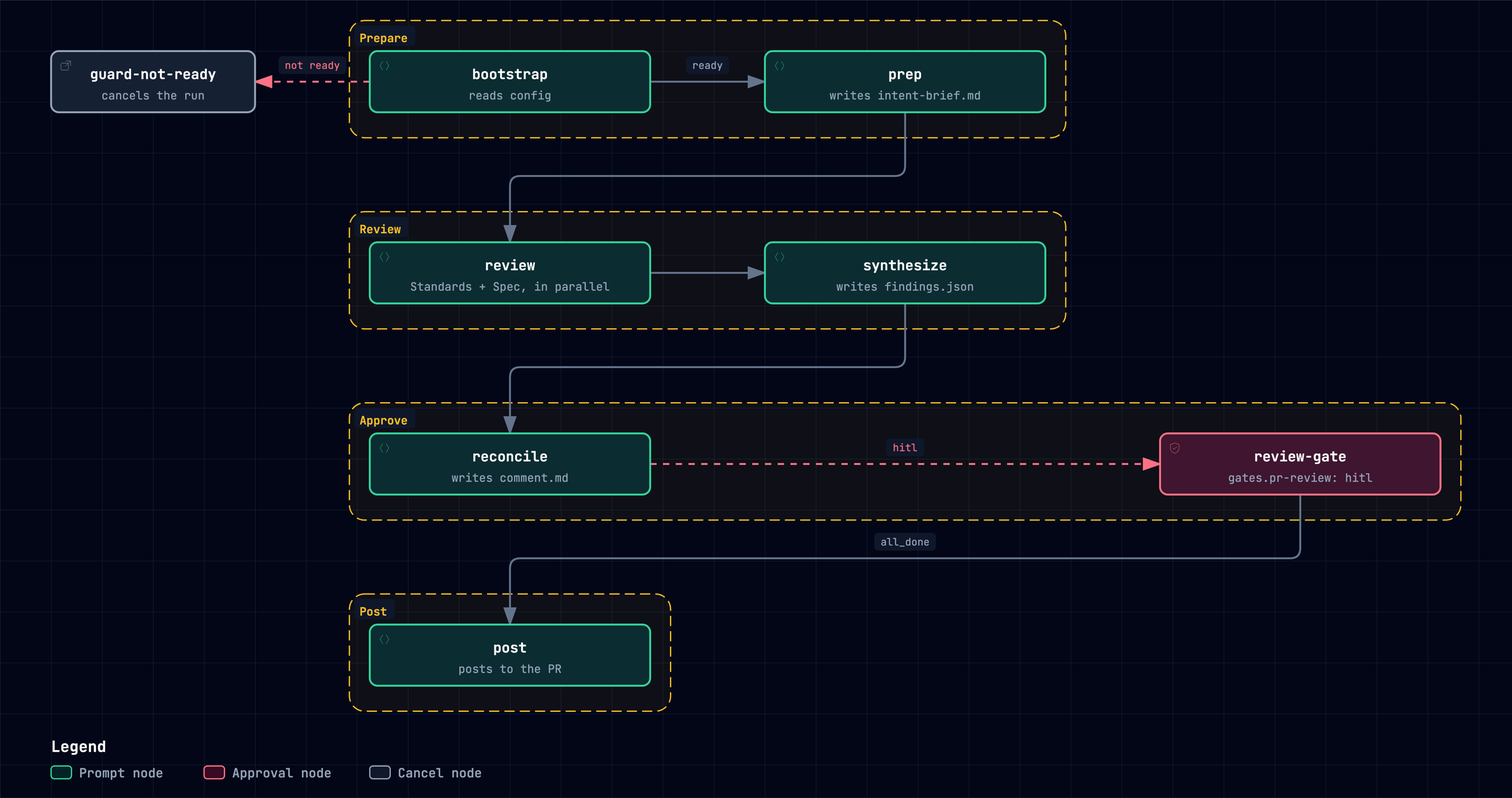
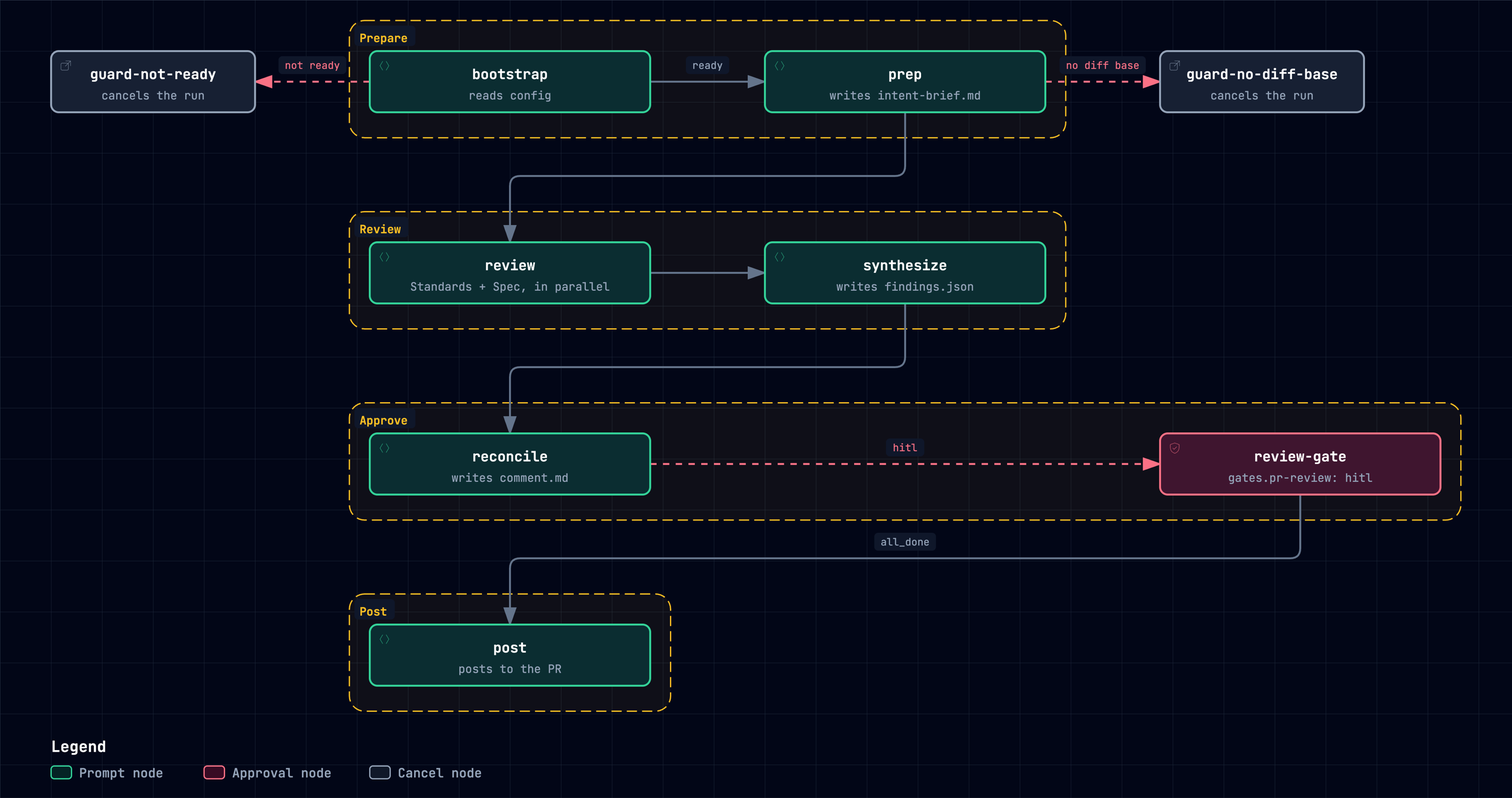
docs(unic-archon-dlc): draw guard-no-diff-base in the /pr-review pipeline diagram
The new cancel node made the diagram stale. It is drawn the way
guard-not-ready is, as a cancel node with a security edge from prep, and
gets its own "No diff base" view. The HTML is regenerated with archify
deliver, and both PNGs are exported from the viewer and scaled to 2620 px
wide, as before.

Refs #505

Changed region(s): [[0.7111, 0.0622, 0.9275, 0.1555]]

diff --git a/apps/claude-code/unic-archon-dlc/docs/architecture/20260925-unic-dlc-pr-review-pipeline.html b/apps/claude-code/unic-archon-dlc/docs/architecture/20260925-unic-dlc-pr-review-pipeline.html
@@ -5085,7 +5085,7 @@ OTHER DEALINGS IN THE FONT SOFTWARE.
       </div>
     </div>
 
-    <script id="archify-guided-views-data" type="application/json">[{"id":"not-ready","label":"Not ready","focus":["bootstrap","guard-not-ready"],"note":"A run whose preconditions fail is cancelled before any review work."},{"id":"happy-path","label":"Happy path","focus":["bootstrap","prep","review","synthesize","reconcile","review-gate","post"],"note":"From bootstrap to the posted review. review runs the Standards and Spec sub-agents in parallel inside one node."},{"id":"approval","label":"Approval","focus":["reconcile","review-gate","post"],"note":"hitl pauses at review-gate. afk skips it, and post runs because its trigger_rule is all_done."}]</script>
+    <script id="archify-guided-views-data" type="application/json">[{"id":"not-ready","label":"Not ready","focus":["bootstrap","guard-not-ready"],"note":"A run whose preconditions fail is cancelled before any review work."},{"id":"no-diff-base","label":"No diff base","focus":["prep","guard-no-diff-base"],"note":"When prep cannot resolve the branch the PR merges into, even after a fetch, the run is cancelled before review."},{"id":"happy-path","label":"Happy path","focus":["bootstrap","prep","review","synthesize","reconcile","review-gate","post"],"note":"From bootstrap to the posted review. review runs the Standards and Spec sub-agents in parallel inside one node."},{"id":"approval","label":"Approval","focus":["reconcile","review-gate","post"],"note":"hitl pauses at review-gate. afk skips it, and post runs because its trigger_rule is all_done."}]</script>
 
     <script id="archify-i18n-data" type="application/json">{"locale":"en","messages":{"viewer.kind.frontend":"Frontend","viewer.kind.backend":"Backend","viewer.kind.database":"Database","viewer.kind.cloud":"Cloud","viewer.kind.security":"Security","viewer.kind.messagebus":"Message bus","viewer.kind.external":"External","viewer.kind.neutral":"Neutral","viewer.kind.node":"Node","viewer.kind.start":"Start","viewer.kind.active":"Active","viewer.kind.waiting":"Waiting","viewer.kind.decision":"Decision","viewer.kind.success":"Success","viewer.kind.failure":"Failure","viewer.toolbar.actions":"Diagram actions","viewer.theme.toggle.title":"Toggle theme (T)","viewer.theme.toggle":"Toggle color theme","viewer.theme.dark":"Dark","viewer.theme.light":"Light","viewer.preset.choose.title":"Choose visual style (S cycles)","viewer.preset.choose":"Choose visual style","viewer.preset.style":"Style","viewer.preset.menu":"Visual style","viewer.preset.identity":"Visual identity","viewer.preset.cycles":"S cycles","viewer.preset.classic":"Classic","viewer.preset.classic.short":"Classic","viewer.preset.classic.hint":"Stable technical default","viewer.preset.flow":"Signal Flow","viewer.preset.flow.short":"Flow","viewer.preset.flow.hint":"Motion-forward presentation","viewer.preset.blueprint":"Blueprint","viewer.preset.blueprint.hint":"Engineering review","viewer.preset.editorial":"Editorial","viewer.preset.editorial.hint":"Publication and launch notes","viewer.preset.badge.signalFlow":"SIGNAL FLOW","viewer.preset.badge.blueprint":"BLUEPRINT / REV 01","viewer.preset.badge.editorial":"EDITORIAL / FIELD NOTE","viewer.preset.badge.editorialPlate":"ARCHIFY / PLATE 04","viewer.preset.current":"Visual style: {style}. Choose visual style","viewer.motion.live":"Live","viewer.motion.still":"Still","viewer.motion.pause":"Pause motion","viewer.motion.resume":"Resume motion","viewer.motion.reduced":"Motion paused by reduced-motion preference","viewer.motion.hidden":"Motion paused while this page is hidden","viewer.motion.yielding":"Pause motion; currently yielding to {owner}","viewer.motion.yielding.title":"Live preview enabled · yielding to {owner}","viewer.owner.story":"the guided story","viewer.owner.chapter":"the active chapter","viewer.owner.chapterPreview":"the chapter delta preview","viewer.owner.handoff":"the chapter handoff","viewer.owner.route":"Route Probe","viewer.owner.lens":"Semantic Lens","viewer.owner.relationship":"Relationship Preview","viewer.owner.intent":"Intent Trace","viewer.owner.focus":"semantic focus","viewer.owner.legend":"legend preview","viewer.owner.reader":"reader interaction","viewer.present.enter":"Enter presentation stage","viewer.present.enter.title":"Presentation stage (F)","viewer.present.exit":"Exit presentation stage","viewer.present.exit.title":"Exit presentation stage (F or Escape)","viewer.present.present":"Present","viewer.present.exit.label":"Exit","viewer.export.button":"Export","viewer.export.button.title":"Export diagram (E)","viewer.export.diagram":"Export diagram","viewer.export.menu":"Export","viewer.export.subtitle":"Portable, clean outputs","viewer.export.share":"Share","viewer.export.shareCard":"Share Card","viewer.export.routeShareCard":"Route Share Card","viewer.export.reachShareCard":"Reach Share Card","viewer.export.copyShareCard":"Copy Share Card","viewer.export.copyDiagram":"Copy diagram","viewer.export.clipboardPng":"PNG to clipboard","viewer.export.raster":"Raster images","viewer.export.image":"Image","viewer.export.lossless":"Lossless image","viewer.export.compact":"Compact image","viewer.export.modern":"Modern image","viewer.export.vectorMotion":"Vector and motion","viewer.export.vectorMotion.heading":"Vector \u0026 motion","viewer.export.editable":"Editable vector","viewer.export.motion6s":"6s motion","viewer.export.unsupported":"Not supported by this browser","viewer.export.clipboardUnsupported":"Clipboard image write not supported by this browser","viewer.export.clipboardUnsupported.period":"Clipboard image write not supported by this browser.","viewer.export.clipboardUnsupported.short":"Clipboard image write not supported in this browser.","viewer.export.motionUnavailable":"Motion capture unavailable in this browser","viewer.export.webmUnavailable":"WebM unavailable in this browser","viewer.export.failed":"Export failed: {message}","viewer.export.unknownVariant":"Unknown Share Card variant: {variant}","viewer.export.routeRequired":"Trace a route before exporting a Route Share Card","viewer.export.reachRequired":"Trace authored reach before exporting a Reach Share Card","viewer.export.unknown":"unknown","viewer.export.routeFailed":"Route Share Card export failed: {message}","viewer.export.reachFailed":"Reach Share Card export failed: {message}","viewer.export.copyFailed":"Copy failed: {message}","viewer.export.copiedPng":"Copied PNG to clipboard","viewer.export.copiedShare":"Copied Share Card","viewer.export.downloadedShare":"Downloaded Share Card","viewer.export.downloadedRoute":"Downloaded Route Share Card","viewer.export.downloadedReach":"Downloaded Reach Share Card","viewer.export.downloadedWebm":"Downloaded WebM","viewer.export.recording":"Recording 6 seconds of motion…","viewer.export.card.routeSummary.one":"Route: {source} → {target} · {count} directed hop","viewer.export.card.routeSummary.other":"Route: {source} → {target} · {count} directed hops","viewer.export.card.reachSummary":"Authored {direction} from {origin} · {nodes} · {links} · max {hops}","viewer.export.card.node.one":"{count} node","viewer.export.card.node.other":"{count} nodes","viewer.export.card.link.one":"{count} link","viewer.export.card.link.other":"{count} links","viewer.export.card.hop.one":"{count} hop","viewer.export.card.hop.other":"{count} hops","viewer.export.card.routeBadge":"ARCHIFY · ROUTE · {hops}","viewer.export.card.reachBadge":"ARCHIFY · {direction} REACH","viewer.export.card.defaultBadge":"ARCHIFY · {preset} · {theme}","viewer.export.direction.upstream":"Upstream","viewer.export.direction.downstream":"Downstream","viewer.export.error.canvasUnavailable":"Canvas unavailable for {label}","viewer.export.error.contextUnavailable":"2D canvas context unavailable for {label}","viewer.export.error.toBlobUnavailable":"canvas.toBlob unavailable for {label}","viewer.export.error.toBlobNull":"canvas.toBlob returned no data for {label}","viewer.export.error.variantsCombined":"Share Card variants cannot be combined","viewer.export.error.viewerState":"Share Card export could not remove temporary viewer state","viewer.export.error.routeState":"Route Card export could not preserve the resolved route safely","viewer.export.error.reachState":"Reach Card export could not preserve authored reach safely","viewer.export.error.webmRequirements":"WebM motion export requires a trace animation and browser MediaRecorder support","viewer.export.error.mediaRecorder":"MediaRecorder failed","viewer.export.error.emptyWebm":"MediaRecorder produced an empty WebM","viewer.export.error.webmBackground":"SVG background could not be loaded for WebM export","viewer.guided.region":"Guided diagram views","viewer.guided.previous":"Previous guided view","viewer.guided.previous.title":"Previous guided view ([)","viewer.guided.next":"Next guided view","viewer.guided.next.title":"Next guided view (])","viewer.guided.views":"Guided views","viewer.guided.explore":"Explore this system","viewer.guided.intro":"Step through curated paths without changing the source diagram.","viewer.guided.trail":"Story trail","viewer.guided.beat":"Beat","viewer.guided.nextBeat":"Next","viewer.guided.play":"Play guided story","viewer.guided.play.title":"Play guided story (P)","viewer.guided.pause":"Pause guided story","viewer.guided.pause.title":"Pause guided story (P)","viewer.guided.replay":"Replay guided story","viewer.guided.replay.title":"Replay guided story (P)","viewer.guided.playStory":"Play story","viewer.guided.pauseStory":"Pause","viewer.guided.replayStory":"Replay story","viewer.guided.motionUnavailable":"Story playback unavailable while motion is Still","viewer.guided.enableMotion":"Switch motion to Live to play the guided story","viewer.guided.selectBeatLink":"Select a Story Beat to copy its exact link","viewer.guided.copyMoment":"Copy moment","viewer.guided.momentCopied":"Moment link copied","viewer.guided.momentCopyFailed":"Could not copy story moment link","viewer.guided.copied":"Copied","viewer.guided.copyFailed":"Copy failed","viewer.guided.showAll":"Show all","viewer.guided.showAll.aria":"Show entire diagram","viewer.guided.chapters":"Story chapters","viewer.guided.storyTrail":"Story trail for {label}: {count} beats","viewer.guided.chapter.open":"Open chapter {index} of {total}: {label}, {count} stops","viewer.guided.chapter.current":"Current chapter {index} of {total}: {label}, {count} stops","viewer.guided.chapter.selectedNodes":"{count} selected nodes","viewer.guided.chapter.stops":"{count} stops","viewer.guided.chapter.stop.one":"{count} stop","viewer.guided.chapter.stop.other":"{count} stops","viewer.guided.chapter.current.title":"{label} — current chapter, {count} stops","viewer.guided.chapter.delta.expanded":"{stay} stay, {enter} enter, {leave} leave","viewer.guided.chapter.delta.aria":"Open chapter {index} of {total}: {label}. Chapter focus delta: {delta}","viewer.guided.chapter.delta.title":"{label} — {delta} chapter focus","viewer.guided.handoff":"{from} → {to} · via {label}","viewer.guided.share.chapter":"Chapter {index} / {total}","viewer.guided.share.initial":"Chapter 01 / 01","viewer.guided.share.default":"Guided chapter","viewer.guided.state.ready":"Ready","viewer.guided.state.playing":"Playing","viewer.guided.state.settled":"Settled","viewer.guided.state.paused":"Paused","viewer.guided.state.pinned":"Pinned","viewer.guided.state.still":"Still","viewer.guided.share.step":"Step {index} / {total} · {label}","viewer.guided.share.staticMoment":"{step} · Static moment","viewer.guided.share.complete":"{count} steps complete · {note}","viewer.guided.share.settled":"Path settled for reading.","viewer.guided.share.staticPath":"{count} steps · Static path","viewer.guided.share.ready":"{count} steps · Ready","viewer.guided.share.aria":"{state} chapter {index} of {total}: {label}. {beat}. {route}","viewer.guided.beat.start":"Beat {index} / {total} · {label} · starting point","viewer.guided.beat.forward":"Beat {index} / {total} · {from} → {to}","viewer.guided.beat.reverse":"Beat {index} / {total} · {from} → {to} · reverse authored link","viewer.guided.beat.multiple":"Beat {index} / {total} · {from} ⇄ {to} · {count} authored links","viewer.guided.beat.group":"Beat {index} / {total} · {from} · {to} · grouped · no direct link","viewer.guided.beat.aria.prefix":"Story beat {index} of {total}: {label}. ","viewer.guided.beat.aria.start":"Starting point.","viewer.guided.beat.aria.forward":"From {from} through one authored forward relationship.","viewer.guided.beat.aria.reverse":"From {from}; the authored relationship points from {to} to {from}.","viewer.guided.beat.aria.multiple":"From {from} through {count} authored relationships; shown without arbitrary motion.","viewer.guided.beat.aria.group":"Grouped from {from} with no direct authored relationship.","viewer.guided.caption.start":"Starting point","viewer.guided.caption.grouped":"Grouped transition · no direct authored link","viewer.guided.caption.more":" +{count} more","viewer.guided.caption.reverse":"Reverse authored relationship","viewer.guided.caption.relationships":"{count} authored relationships","viewer.guided.caption.relationship":"Authored relationship","viewer.guided.caption.direction":"authored direction: {from} → {to}","viewer.guided.caption.starting":"Authored starting point","viewer.guided.beatLink":"Copy link to current story moment: Beat {index} of {total}: {label}","viewer.guided.noStory":"This diagram has no authored guided story.","viewer.guide.eyebrow":"Diagram guide","viewer.guide.close":"Close diagram guide","viewer.guide.inspecting":"Inspecting compiled semantics","viewer.guide.actions":"Diagram exploration actions","viewer.guide.find":"Find any node","viewer.guide.find.hint":"Search labels, responsibilities, kinds, and stable IDs.","viewer.guide.route":"Trace a route","viewer.guide.route.aria":"Trace a directed route","viewer.guide.route.hint":"Ask how two semantic nodes connect in authored direction.","viewer.guide.map":"See the whole system","viewer.guide.map.hint":"Open Semantic Radar with a live viewport and stable nodes.","viewer.guide.lens":"Compare semantic kinds","viewer.guide.lens.hint":"Count roles, reveal their traffic, and compare direct authored links.","viewer.guide.story":"Play the guided story","viewer.guide.story.hint":"Walk the authored chapters and real relationships.","viewer.guide.present":"Enter Presentation Stage","viewer.guide.present.hint":"Give the live diagram the viewport without changing export.","viewer.guide.shortcuts":"Additional keyboard shortcuts","viewer.guide.shortcut.export":"Export","viewer.guide.shortcut.theme":"Theme","viewer.guide.shortcut.style":"Style","viewer.guide.shortcut.reset":"Reset","viewer.guide.shortcut.zoomIn":"Zoom in","viewer.guide.shortcut.zoomOut":"Zoom out","viewer.guide.shortcut.close":"Close","viewer.guide.facts":"{nodes} · {relationships} · {views}","viewer.guide.fact.node.one":"{count} semantic node","viewer.guide.fact.node.other":"{count} semantic nodes","viewer.guide.fact.relationship.one":"{count} relationship","viewer.guide.fact.relationship.other":"{count} relationships","viewer.guide.fact.view.one":"{count} guided view","viewer.guide.fact.view.other":"{count} guided views","viewer.guide.story.available.one":"Walk {count} authored chapter and its real relationships.","viewer.guide.story.available.other":"Walk {count} authored chapters and their real relationships.","viewer.guide.story.unavailable":"No authored guided story in this diagram.","viewer.guide.open":"Open diagram guide","viewer.guide.noStory":"This diagram has no authored guided story.","viewer.finder.title":"Find a node","viewer.finder.close":"Close node finder","viewer.finder.placeholder":"Search labels or IDs","viewer.finder.search":"Search diagram nodes","viewer.finder.results":"Diagram nodes","viewer.finder.empty":"No matching nodes","viewer.finder.result.focus":"Focus {label}","viewer.finder.result.routeStart":"Choose {label} as route start","viewer.finder.result.routeTarget":"Choose {label} as route destination, {links}","viewer.finder.status.empty":"No matching nodes","viewer.finder.status.count.one":"{count} matching node","viewer.finder.status.count.other":"{count} matching nodes","viewer.finder.noun.nodes":"nodes","viewer.finder.link.one":"{count} link","viewer.finder.link.other":"{count} links","viewer.finder.result.focus.one":"Focus {label}, {count} related connection","viewer.finder.result.focus.other":"Focus {label}, {count} related connections","viewer.finder.status.filtered":"{visible} of {available} {noun}","viewer.finder.status.all":"{available} {noun}","viewer.passport.eyebrow":"Semantic passport","viewer.passport.metadata":"Node metadata","viewer.passport.evidence":"Verified source evidence","viewer.passport.verified":"Verified source","viewer.passport.verificationScope":"Verified against local Git at the pinned revision. Remote access has not been checked.","viewer.passport.reach":"Authored reach","viewer.passport.reach.trace":"Trace authored reachability","viewer.passport.upstream":"Upstream","viewer.passport.downstream":"Downstream","viewer.passport.upstream.trace":"Trace upstream authored reachability","viewer.passport.downstream.trace":"Trace downstream authored reachability","viewer.passport.close":"Close semantic passport","viewer.passport.copy":"Copy link","viewer.passport.copy.focus":"Copy link to focused node","viewer.passport.relations":"Relations","viewer.passport.relations.show":"Show connected relationships","viewer.passport.relations.hide":"Hide connected relationships","viewer.passport.relations.list":"Connected relationships","viewer.passport.copyRelation":"Copy relation","viewer.passport.copyNode":"Copy node","viewer.passport.copyPinned":"Copy link to pinned relationship","viewer.passport.copySource":"Copy link to source node","viewer.passport.copy.focused.success":"Focused node link copied","viewer.passport.copy.pinned.success":"Pinned relationship link copied","viewer.passport.copy.focused.failed":"Could not copy focused node link","viewer.passport.copy.pinned.failed":"Could not copy pinned relationship link","viewer.passport.relationship.none":"No connected relationships","viewer.passport.relationship.count.one":"{count} relation","viewer.passport.relationship.count.other":"{count} relations","viewer.passport.relationship.show.one":"Show {count} connected relationship","viewer.passport.relationship.show.other":"Show {count} connected relationships","viewer.passport.relationship.summary":"{out} outgoing · {in} incoming{loops}","viewer.passport.relationship.loops":" · {count} loop","viewer.passport.relationship.explorer":"Direct relationship explorer","viewer.passport.relationship.help":"Use arrow keys to explore relationships. Press Enter or Space to pin details; Escape clears.","viewer.passport.relationship.loopsBack":"loops back","viewer.passport.relationship.connectsTo":"connects to","viewer.passport.relationship.connectsFrom":"connects from","viewer.passport.relationship.pinned":"Pinned relationship · {from} → {to} · {label}","viewer.passport.relationship.inspect":"Inspect relationship {index} of {total}: {from} to {to}, {label}. Press Enter for details.","viewer.passport.relationship.group.out":"Outgoing","viewer.passport.relationship.group.in":"Incoming","viewer.passport.relationship.group.loop":"Self loops","viewer.passport.relationship.row":"{group}: {relationship}, {neighbor}","viewer.passport.relationship.direction.out":"OUT →","viewer.passport.relationship.direction.in":"← IN","viewer.passport.relationship.direction.loop":"LOOP","viewer.passport.sourceCount.one":"{count} verified source reference","viewer.passport.sourceCount.other":"{count} verified source references","viewer.passport.sourceMarker":"SRC","viewer.passport.beacon.one":"{count} verified source; focus this node to inspect","viewer.passport.beacon.other":"{count} verified sources; focus this node to inspect","viewer.passport.repository.open":"Open verified repository revision {revision}","viewer.passport.source.open":"Open verified source {path} at revision {revision}","viewer.passport.source.openLink":"Open ↗","viewer.passport.reach.upstream.one":"Trace {count} upstream authored node","viewer.passport.reach.upstream.other":"Trace {count} upstream authored nodes","viewer.passport.reach.downstream.one":"Trace {count} downstream authored node","viewer.passport.reach.downstream.other":"Trace {count} downstream authored nodes","viewer.passport.reach.noUpstream":"No upstream authored nodes","viewer.passport.reach.noDownstream":"No downstream authored nodes","viewer.passport.reach.status":"{direction} · {nodes} nodes · {links} links · max {hops} hops","viewer.route.eyebrow":"Route probe","viewer.route.start":"Choose a start node","viewer.route.start.find":"Find start","viewer.route.start.find.aria":"Find a route start","viewer.route.copy":"Copy link","viewer.route.copy.aria":"Copy link to traced route","viewer.route.clear":"Clear","viewer.route.clear.aria":"Clear route probe","viewer.route.traced":"Traced route","viewer.route.pickTwo":"Pick two semantic nodes on the diagram","viewer.route.pickOne":"Pick a semantic node on the diagram","viewer.route.controls":"Route journey controls","viewer.route.previous":"Previous route position","viewer.route.play":"Play route journey","viewer.route.pause":"Pause route journey","viewer.route.replay":"Replay route journey","viewer.route.next":"Next route position","viewer.route.journey":"Journey","viewer.route.pause.label":"Pause","viewer.route.replay.label":"Replay","viewer.route.overview":"Overview","viewer.route.overview.aria":"Show complete route overview","viewer.route.instructions":"Choose the source, then the destination. Direction matters.","viewer.route.destination":"Choose a destination from {label}","viewer.route.destination.find":"Find target","viewer.route.destination.find.aria":"Find a reachable route destination","viewer.route.differentDestination":"Choose a different destination","viewer.route.distinct":"A route needs two distinct semantic nodes.","viewer.route.unreachable":"No directed route to {label}","viewer.route.unreachable.detail":"{target} is not reachable from {source}. Pick a highlighted destination.","viewer.route.start.instructions":"Select the source. The next step will reveal only directed destinations.","viewer.route.copy.success":"Traced route link copied","viewer.route.copy.failed":"Could not copy traced route link","viewer.route.position":"Route position {index} of {total}: {label}","viewer.route.step":"Step {index} of {total} · {phase} · {label}","viewer.route.motionRequired":"Automatic journey requires Live motion","viewer.route.trigger.clear":"Clear traced route","viewer.route.overview.status":"{nodes} · {hops} · shortest authored route","viewer.route.overview.node.one":"{count} node","viewer.route.overview.node.other":"{count} nodes","viewer.route.overview.hop.one":"{count} directed hop","viewer.route.overview.hop.other":"{count} directed hops","viewer.route.phase.playing":"Playing","viewer.route.phase.complete":"Complete","viewer.route.phase.inspecting":"Inspecting","viewer.route.destination.count.one":"{count} directed destination available. Pick a highlighted node.","viewer.route.destination.count.other":"{count} directed destinations available. Pick a highlighted node.","viewer.route.noOutgoing":"No outgoing route starts here. Clear and choose another source.","viewer.route.result.title":"{source} to {target}","viewer.route.finder.source.title":"Choose route start","viewer.route.finder.source.placeholder":"Search route sources","viewer.route.finder.source.empty":"No matching route sources","viewer.route.finder.source.results":"Nodes that can start a route","viewer.route.finder.source.noun":"route sources","viewer.route.finder.source.badge":"start","viewer.route.finder.target.title":"Destination from {label}","viewer.route.finder.target.placeholder":"Search reachable destinations","viewer.route.finder.target.empty":"No matching reachable destinations","viewer.route.finder.target.results":"Reachable route destinations","viewer.route.finder.target.noun":"reachable destinations","viewer.route.hop.one":"{count} hop","viewer.route.hop.other":"{count} hops","viewer.lens.eyebrow":"Semantic lens","viewer.lens.title":"Compare system roles","viewer.lens.close":"Close semantic lens","viewer.lens.instruction":"Choose up to two semantic kinds. One reveals its real traffic; two compare only direct authored relationships.","viewer.lens.kinds":"Semantic kinds","viewer.lens.choose":"Choose a kind to inspect its nodes and touching relationships.","viewer.lens.copy":"Copy link to semantic lens","viewer.lens.clear":"Clear semantic lens","viewer.lens.open":"Open semantic lens","viewer.lens.openActive":"Open active semantic lens","viewer.lens.legend":"Semantic legend","viewer.lens.legend.inspect.one":"Inspect {label}, {count} node","viewer.lens.legend.inspect.other":"Inspect {label}, {count} nodes","viewer.lens.kind.count.one":"{label}, {count} node","viewer.lens.kind.count.other":"{label}, {count} nodes","viewer.lens.compare.one":"{first} → {second}: {forward} · {second} → {first}: {reverse} · {count} direct relationship","viewer.lens.compare.other":"{first} → {second}: {forward} · {second} → {first}: {reverse} · {count} direct relationships","viewer.lens.single":"{nodes} · {relationships} · connected peers remain visible","viewer.lens.node.one":"{count} {label} node","viewer.lens.node.other":"{count} {label} nodes","viewer.lens.relationship.one":"{count} touching relationship","viewer.lens.relationship.other":"{count} touching relationships","viewer.radar.title":"Semantic radar","viewer.radar.building":"Building overview","viewer.radar.openFull":"Open full semantic radar","viewer.radar.open":"Open radar","viewer.radar.close":"Close semantic radar","viewer.radar.surface":"Diagram overview. Click a node to focus it, or use arrow keys to pan.","viewer.radar.click":"Click node","viewer.radar.drag":"Drag to pan","viewer.radar.space":"Semantic radar needs more MAP space.","viewer.radar.nodes":"Semantic diagram radar nodes","viewer.radar.focus":"Focus {label} from Semantic Radar","viewer.radar.status":"{count} nodes · {viewport}","viewer.radar.fullMap":"{count} nodes · full map","viewer.radar.compacted":"Radar compacted to avoid covering the Semantic Passport or MAP controls.","viewer.radar.cancelWaiting":"Cancel semantic radar waiting for more MAP space","viewer.radar.needsSpace":"Semantic radar needs more visible MAP space","viewer.radar.viewport.full":"full map","viewer.radar.viewport.width":"{percent}% width","viewer.radar.viewport.scale":"{percent}% viewport","viewer.nav.controls":"Diagram view controls","viewer.nav.route":"Trace a directed route","viewer.nav.route.title":"Trace route (R)","viewer.nav.route.short":"PATH","viewer.nav.radar":"Open semantic radar","viewer.nav.radar.title":"Semantic radar (M)","viewer.nav.radar.short":"MAP","viewer.nav.lens":"Open semantic lens","viewer.nav.lens.title":"Semantic lens (L)","viewer.nav.lens.short":"LENS","viewer.nav.find":"Find a node","viewer.nav.find.title":"Find a node (/)","viewer.nav.guide":"Open diagram guide","viewer.nav.guide.title":"Diagram guide (?)","viewer.nav.zoomOut":"Zoom out","viewer.nav.zoomOut.title":"Zoom out (-)","viewer.nav.reset":"Reset diagram view","viewer.nav.reset.title":"Reset view (0)","viewer.nav.read":"READ","viewer.nav.zoomIn":"Zoom in","viewer.nav.zoomIn.title":"Zoom in (+)","viewer.nav.camera":"{hint}. Reset diagram view","viewer.nav.camera.title":"{semantic}{hint} · reset view (0)","viewer.nav.camera.semantic":"Semantic camera active · ","viewer.nav.level.map":"MAP","viewer.nav.level.read":"READ","viewer.nav.level.full":"FULL","viewer.nav.level.auto":"AUTO","viewer.nav.detail.map":"Zoom in to reveal relationship labels and node context","viewer.nav.detail.read":"Zoom in again to reveal tags and annotations","viewer.nav.detail.full":"Full diagram detail","viewer.intent.summary":"{label}. {out} outgoing, {in} incoming{loops}. {total} connections. Press Enter for details.","viewer.intent.loops":", {count} self loop","viewer.common.copied":"Copied","viewer.common.copyFailed":"Copy failed","viewer.common.copyLink":"Copy link","viewer.common.clear":"Clear","viewer.common.close":"Close"}}</script>
     <div class="guided-views no-print" id="guided-views" hidden aria-label="Guided diagram views">
@@ -5167,11 +5167,12 @@ OTHER DEALINGS IN THE FONT SOFTWARE.
         <!-- Connection paths (before components for correct z-order) -->
         <path data-edge-from="bootstrap" data-edge-to="prep" data-edge-label="ready" data-edge-key="0" data-edge-id="bootstrap-prep" data-composition-points="510,64;600,64" d="M 510 64 L 600 64" class="a-default" stroke-width="1.5" marker-end="url(#arrowhead)"/>
         <path data-edge-from="bootstrap" data-edge-to="guard-not-ready" data-edge-label="not ready" data-edge-key="1" data-edge-id="not-ready" data-composition-points="290,64;200,64" d="M 290 64 L 200 64" class="a-security" stroke-width="1.5" marker-end="url(#arrowhead-security)"/>
-        <path data-edge-from="prep" data-edge-to="review" data-edge-key="2" data-edge-id="prep-review" data-composition-points="710,88;710,138;400,138;400,190" d="M 710 88 L 710 130 Q 710 138 702 138 L 408 138 Q 400 138 400 146 L 400 190" class="a-default" stroke-width="1.5" marker-end="url(#arrowhead)"/>
-        <path data-edge-from="review" data-edge-to="synthesize" data-edge-key="3" data-edge-id="review-synthesize" data-composition-points="510,214;600,214" d="M 510 214 L 600 214" class="a-default" stroke-width="1.5" marker-end="url(#arrowhead)"/>
-        <path data-edge-from="synthesize" data-edge-to="reconcile" data-edge-key="4" data-edge-id="synthesize-reconcile" data-composition-points="710,238;710,288;400,288;400,340" d="M 710 238 L 710 280 Q 710 288 702 288 L 408 288 Q 400 288 400 296 L 400 340" class="a-default" stroke-width="1.5" marker-end="url(#arrowhead)"/>
-        <path data-edge-from="reconcile" data-edge-to="review-gate" data-edge-label="hitl" data-edge-key="5" data-edge-id="reconcile-review-gate" data-composition-points="510,364;910,364" d="M 510 364 L 910 364" class="a-security" stroke-width="1.5" marker-end="url(#arrowhead-security)"/>
-        <path data-edge-from="review-gate" data-edge-to="post" data-edge-label="all_done" data-edge-key="6" data-edge-id="review-gate-post" data-composition-points="1020,388;1020,438;400,438;400,490" d="M 1020 388 L 1020 430 Q 1020 438 1012 438 L 408 438 Q 400 438 400 446 L 400 490" class="a-default" stroke-width="1.5" marker-end="url(#arrowhead)"/>
+        <path data-edge-from="prep" data-edge-to="guard-no-diff-base" data-edge-label="no diff base" data-edge-key="2" data-edge-id="no-diff-base" data-composition-points="820,64;910,64" d="M 820 64 L 910 64" class="a-security" stroke-width="1.5" marker-end="url(#arrowhead-security)"/>
+        <path data-edge-from="prep" data-edge-to="review" data-edge-key="3" data-edge-id="prep-review" data-composition-points="710,88;710,138;400,138;400,190" d="M 710 88 L 710 130 Q 710 138 702 138 L 408 138 Q 400 138 400 146 L 400 190" class="a-default" stroke-width="1.5" marker-end="url(#arrowhead)"/>
+        <path data-edge-from="review" data-edge-to="synthesize" data-edge-key="4" data-edge-id="review-synthesize" data-composition-points="510,214;600,214" d="M 510 214 L 600 214" class="a-default" stroke-width="1.5" marker-end="url(#arrowhead)"/>
+        <path data-edge-from="synthesize" data-edge-to="reconcile" data-edge-key="5" data-edge-id="synthesize-reconcile" data-composition-points="710,238;710,288;400,288;400,340" d="M 710 238 L 710 280 Q 710 288 702 288 L 408 288 Q 400 288 400 296 L 400 340" class="a-default" stroke-width="1.5" marker-end="url(#arrowhead)"/>
+        <path data-edge-from="reconcile" data-edge-to="review-gate" data-edge-label="hitl" data-edge-key="6" data-edge-id="reconcile-review-gate" data-composition-points="510,364;910,364" d="M 510 364 L 910 364" class="a-security" stroke-width="1.5" marker-end="url(#arrowhead-security)"/>
+        <path data-edge-from="review-gate" data-edge-to="post" data-edge-label="all_done" data-edge-key="7" data-edge-id="review-gate-post" data-composition-points="1020,388;1020,438;400,438;400,490" d="M 1020 388 L 1020 430 Q 1020 438 1012 438 L 408 438 Q 400 438 400 446 L 400 490" class="a-default" stroke-width="1.5" marker-end="url(#arrowhead)"/>
 
         <!-- Components -->
         <g id="node-guard-not-ready" data-node-id="guard-not-ready" data-node-label="guard-not-ready" tabindex="0" role="button" aria-label="Focus guard-not-ready, cancels the run, Architecture component" aria-pressed="false" data-node-kind="external" data-node-sublabel="cancels the run" data-node-context="Architecture component">
@@ -5206,6 +5207,18 @@ OTHER DEALINGS IN THE FONT SOFTWARE.
           </g>
           <text data-node-label="" data-detail-anchor="" x="710" y="62" class="t-primary" font-size="11" font-weight="600" text-anchor="middle">prep</text>
         <text data-detail="context" x="710" y="78" class="t-muted" font-size="9" text-anchor="middle">writes intent-brief.md</text>
+        </g>
+
+        <g id="node-guard-no-diff-base" data-node-id="guard-no-diff-base" data-node-label="guard-no-diff-base" tabindex="0" role="button" aria-label="Focus guard-no-diff-base, cancels the run, Architecture component" aria-pressed="false" data-node-kind="external" data-node-sublabel="cancels the run" data-node-context="Architecture component">
+          <title>guard-no-diff-base · cancels the run · Architecture component</title>
+          <rect x="910" y="40" width="160" height="48" rx="6" class="c-mask"/>
+          <rect x="910" y="40" width="160" height="48" rx="6" class="c-external" stroke-width="1.5"/>
+          <g aria-hidden="true" data-semantic-sigil="external" class="semantic-sigil s-external" transform="translate(916 46) scale(0.6875)">
+            <rect x="2.5" y="5" width="8.5" height="8" rx="1.5"/>
+            <path d="M8 2.5h5.5V8M13.5 2.5 7.5 8.5"/>
+          </g>
+          <text data-node-label="" data-detail-anchor="" x="990" y="62" class="t-primary" font-size="11" font-weight="600" text-anchor="middle">guard-no-diff-base</text>
+        <text data-detail="context" x="990" y="78" class="t-muted" font-size="9" text-anchor="middle">cancels the run</text>
         </g>
 
         <g id="node-review" data-node-id="review" data-node-label="review" tabindex="0" role="button" aria-label="Focus review, Standards + Spec, in parallel, Review" aria-pressed="false" data-node-kind="backend" data-node-sublabel="Standards + Spec, in parallel" data-node-context="Review">
@@ -5273,14 +5286,18 @@ OTHER DEALINGS IN THE FONT SOFTWARE.
           <rect x="218.4" y="44" width="53.199999999999996" height="14" rx="3" class="c-mask"/>
           <text x="245" y="54" class="t-security" font-size="8" text-anchor="middle">not ready</text>
         </g>
+        <g data-detail="context" data-edge-from="prep" data-edge-to="guard-no-diff-base" data-edge-label="no diff base" data-edge-key="2" data-edge-id="no-diff-base">
+          <rect x="831.2" y="44" width="67.6" height="14" rx="3" class="c-mask"/>
+          <text x="865" y="54" class="t-security" font-size="8" text-anchor="middle">no diff base</text>
+        </g>
 
 
 
-        <g data-detail="context" data-edge-from="reconcile" data-edge-to="review-gate" data-edge-label="hitl" data-edge-key="5" data-edge-id="reconcile-review-gate">
+        <g data-detail="context" data-edge-from="reconcile" data-edge-to="review-gate" data-edge-label="hitl" data-edge-key="6" data-edge-id="reconcile-review-gate">
           <rect x="695" y="344" width="30" height="14" rx="3" class="c-mask"/>
           <text x="710" y="354" class="t-security" font-size="8" text-anchor="middle">hitl</text>
         </g>
-        <g data-detail="context" data-edge-from="review-gate" data-edge-to="post" data-edge-label="all_done" data-edge-key="6" data-edge-id="review-gate-post">
+        <g data-detail="context" data-edge-from="review-gate" data-edge-to="post" data-edge-label="all_done" data-edge-key="7" data-edge-id="review-gate-post">
           <rect x="685.8" y="418" width="48.4" height="14" rx="3" class="c-mask"/>
           <text x="710" y="428" class="t-muted" font-size="8" text-anchor="middle">all_done</text>
         </g>
